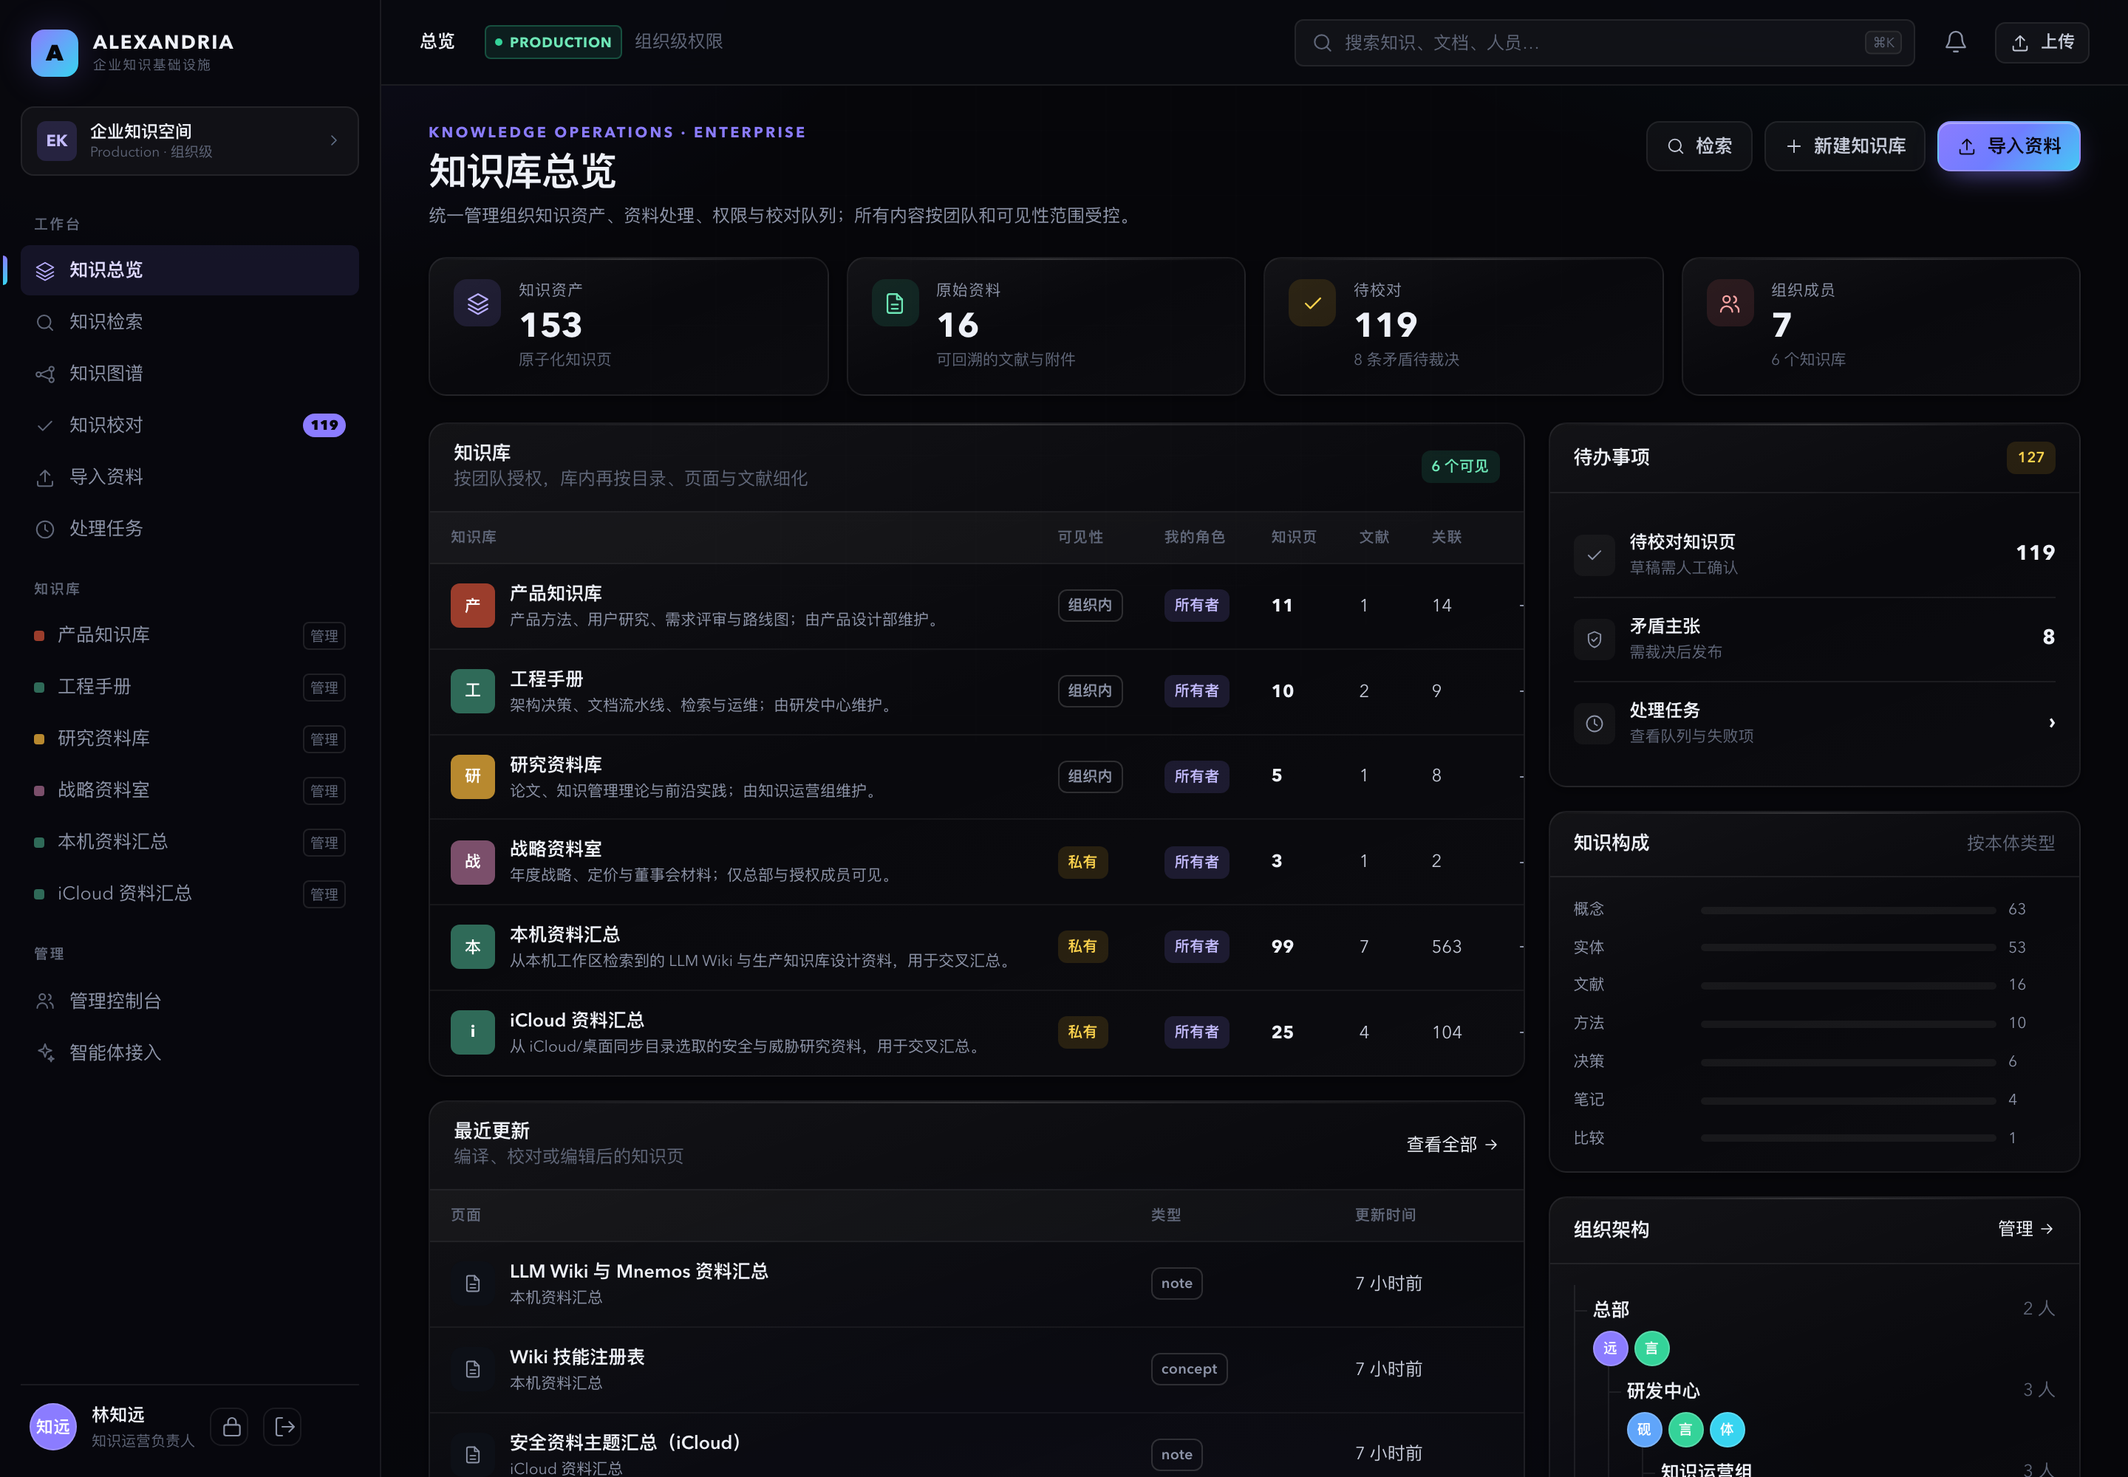
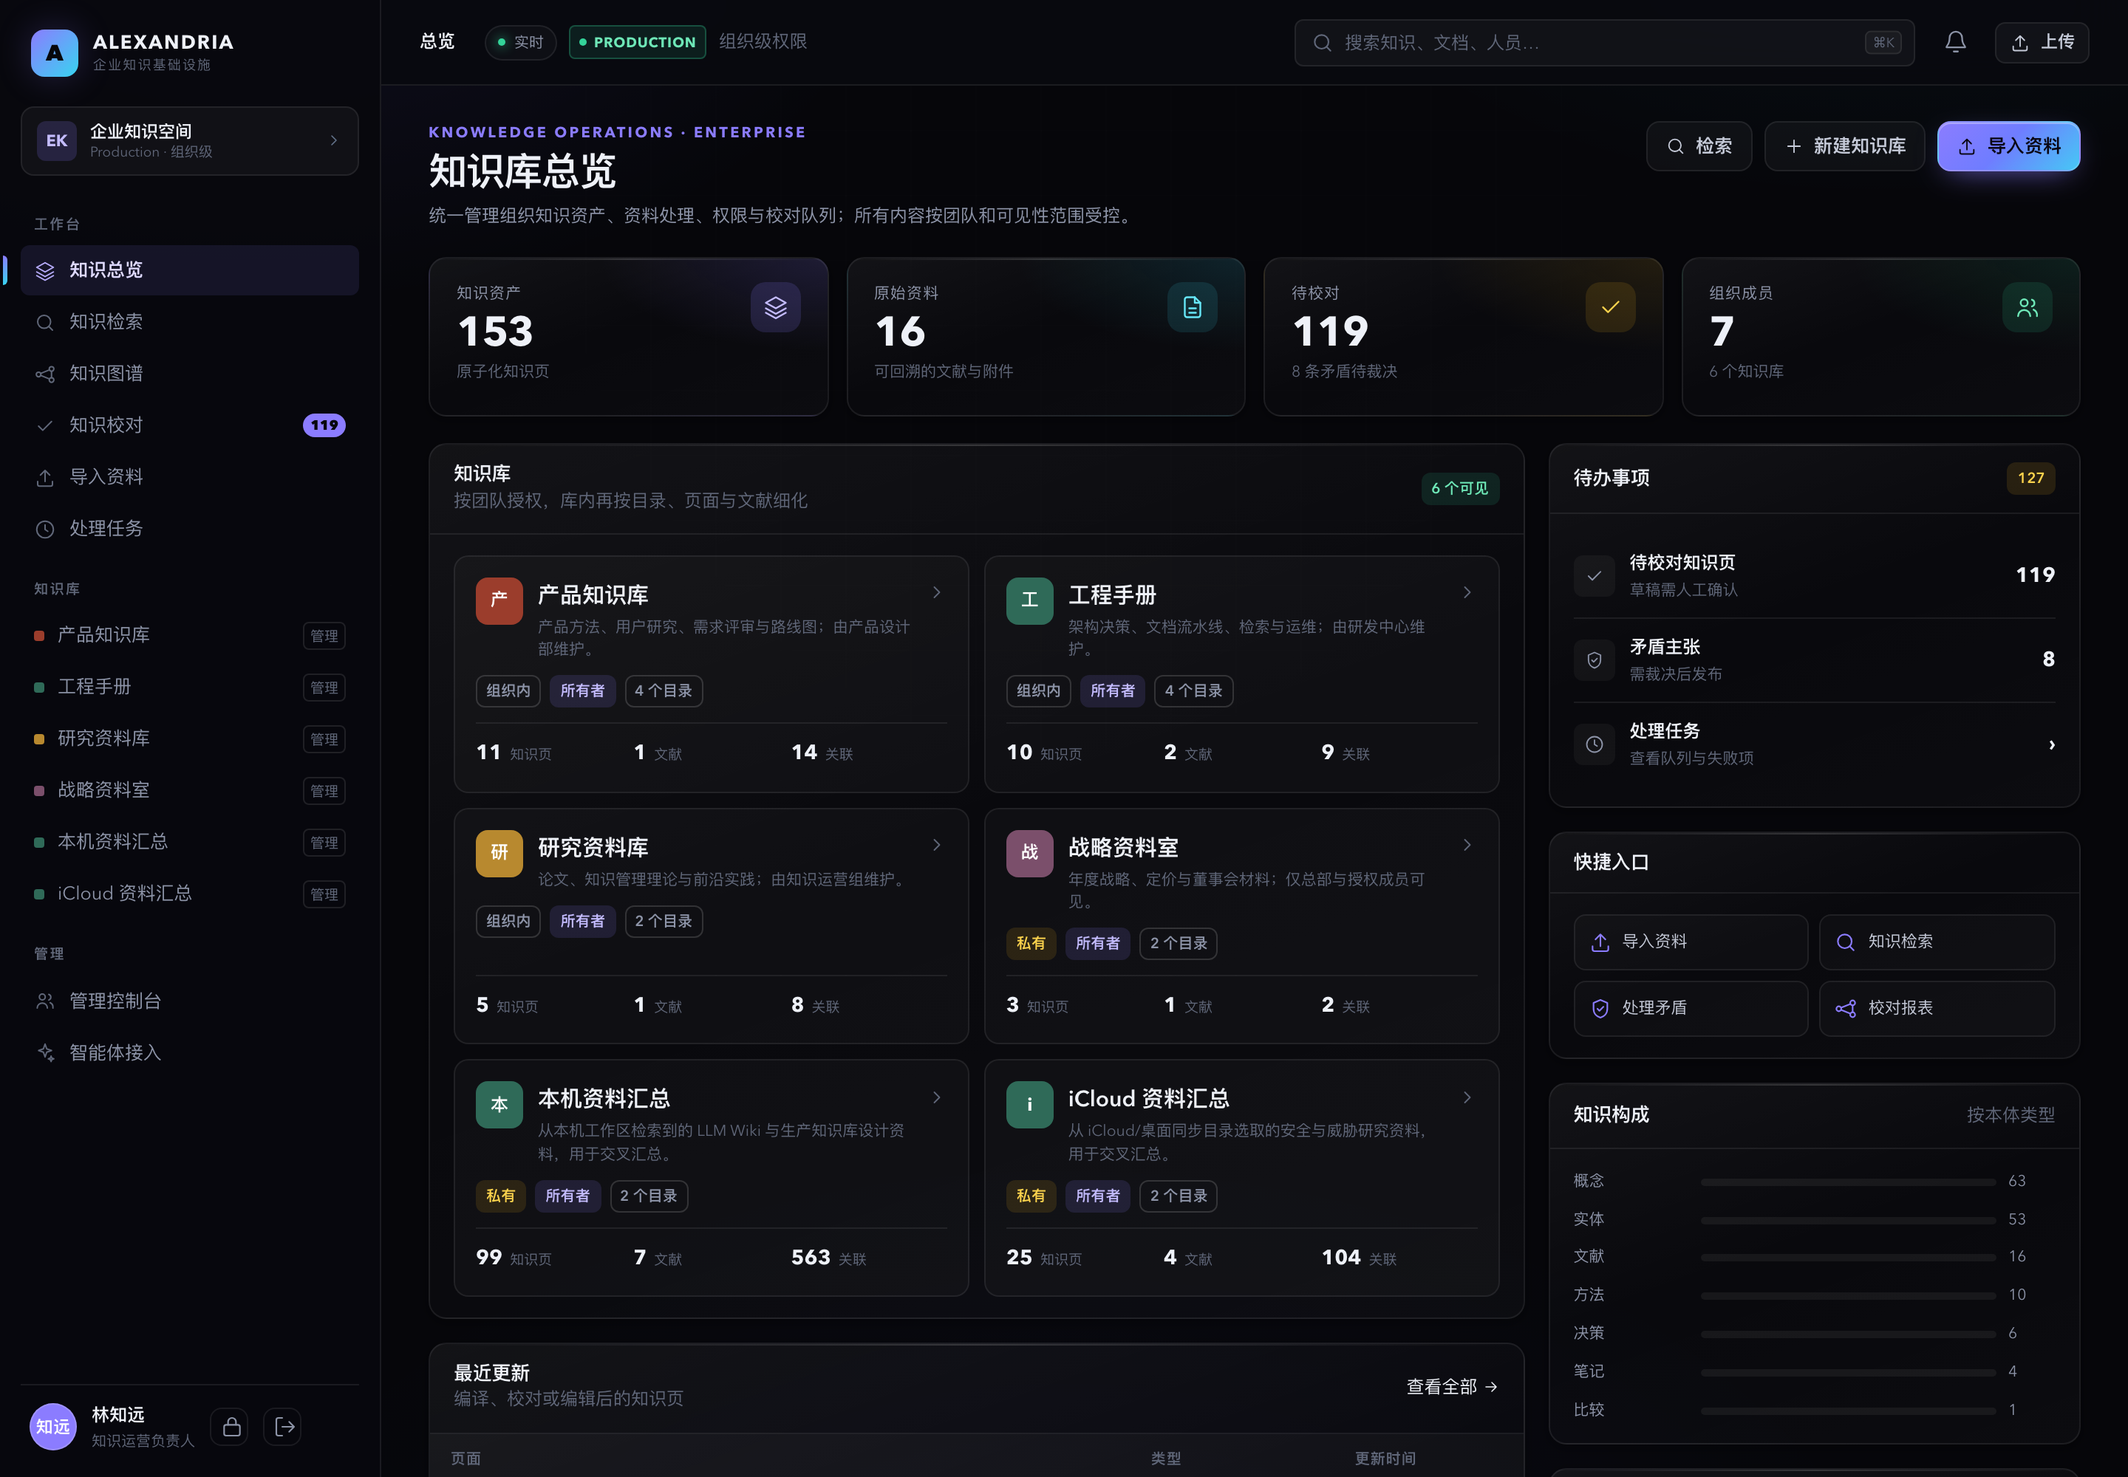
feat(ui): mirror aiworker Aurora login and Hive dashboard

diff --git a/web/views/home.js b/web/views/home.js
@@ -26,22 +26,23 @@ export async function renderHome() {
   const maxClass = Math.max(1, ...classes.map((item) => item.count));
   const featured = libraries[0];
 
-  const libraryRows = libraries
+  const libraryCards = libraries
     .map((library) => {
       const coverColor = libraryColor(library.color);
       const visibility = library.visibility === 'private' ? '私有' : library.visibility === 'public' ? '公开' : '组织内';
-      return `<tr>
-        <td><a class="library-row" href="#/library/${encodeURIComponent(library.slug)}">
-          <span class="library-avatar" style="background:${coverColor}">${esc(library.name.slice(0, 1))}</span>
-          <span style="min-width:0"><span class="name">${esc(library.name)}</span><span class="desc">${esc(library.description || '暂无描述')}</span></span>
-        </a></td>
-        <td><span class="badge ${library.visibility === 'private' ? 'ochre' : 'outline'}">${visibility}</span></td>
-        <td>${roleBadge(library.role)}</td>
-        <td class="num-cell"><b>${fmtNumber(library.counts?.pages)}</b></td>
-        <td class="num-cell">${fmtNumber(library.counts?.sources)}</td>
-        <td class="num-cell">${fmtNumber(library.counts?.links)}</td>
-        <td><a class="icon-btn" href="#/library/${encodeURIComponent(library.slug)}" title="打开知识库" aria-label="打开知识库">${icon('arrow', 14)}</a></td>
-      </tr>`;
+      return `<a class="lib-card" href="#/library/${encodeURIComponent(library.slug)}">
+        <div class="lib-card-head">
+          <span class="lib-avatar" style="background:${coverColor}">${esc(library.name.slice(0, 1))}</span>
+          <span class="lib-card-title"><b>${esc(library.name)}</b><span>${esc(library.description || '暂无描述')}</span></span>
+          <span class="lib-chevron">${icon('chevron', 14)}</span>
+        </div>
+        <div class="lib-card-badges"><span class="badge ${library.visibility === 'private' ? 'ochre' : 'outline'}">${visibility}</span>${roleBadge(library.role)}<span class="badge outline">${(library.nodes ?? []).length} 个目录</span></div>
+        <div class="lib-card-stats">
+          <span><b>${fmtNumber(library.counts?.pages)}</b><i>知识页</i></span>
+          <span><b>${fmtNumber(library.counts?.sources)}</b><i>文献</i></span>
+          <span><b>${fmtNumber(library.counts?.links)}</b><i>关联</i></span>
+        </div>
+      </a>`;
     })
     .join('');
 
@@ -77,22 +78,17 @@ export async function renderHome() {
     </section>
 
     <section class="kpi-grid">
-      <div class="kpi-card"><span class="kpi-icon">${icon('layers', 17)}</span><div><div class="label">知识资产</div><div class="value">${fmtNumber(stats.pages)}</div><div class="hint">原子化知识页</div></div></div>
-      <div class="kpi-card"><span class="kpi-icon green">${icon('file', 17)}</span><div><div class="label">原始资料</div><div class="value">${fmtNumber(stats.sources)}</div><div class="hint">可回溯的文献与附件</div></div></div>
-      <div class="kpi-card"><span class="kpi-icon amber">${icon('check', 17)}</span><div><div class="label">待校对</div><div class="value">${fmtNumber(pending)}</div><div class="hint">${conflicts} 条矛盾待裁决</div></div></div>
-      <div class="kpi-card"><span class="kpi-icon ${conflicts ? 'red' : 'green'}">${icon('users', 17)}</span><div><div class="label">组织成员</div><div class="value">${fmtNumber(stats.members)}</div><div class="hint">${fmtNumber(stats.libraries ?? libraries.length)} 个知识库</div></div></div>
+      <div class="kpi-card kpi-violet"><div><div class="label">知识资产</div><div class="value">${fmtNumber(stats.pages)}</div><div class="hint">原子化知识页</div></div><span class="kpi-icon">${icon('layers', 18)}</span></div>
+      <div class="kpi-card kpi-cyan"><div><div class="label">原始资料</div><div class="value">${fmtNumber(stats.sources)}</div><div class="hint">可回溯的文献与附件</div></div><span class="kpi-icon">${icon('file', 18)}</span></div>
+      <div class="kpi-card kpi-amber"><div><div class="label">待校对</div><div class="value">${fmtNumber(pending)}</div><div class="hint">${conflicts} 条矛盾待裁决</div></div><span class="kpi-icon">${icon('check', 18)}</span></div>
+      <div class="kpi-card kpi-green"><div><div class="label">组织成员</div><div class="value">${fmtNumber(stats.members)}</div><div class="hint">${fmtNumber(stats.libraries ?? libraries.length)} 个知识库</div></div><span class="kpi-icon">${icon('users', 18)}</span></div>
     </section>
 
     <div class="dashboard-grid">
       <div class="dashboard-main">
         <div class="panel">
           <div class="panel-head"><div><h3>知识库</h3><div class="small faint">按团队授权，库内再按目录、页面与文献细化</div></div><span class="badge jade">${libraries.length} 个可见</span></div>
-          <div style="overflow:auto">
-            <table class="data-table">
-              <thead><tr><th>知识库</th><th>可见性</th><th>我的角色</th><th>知识页</th><th>文献</th><th>关联</th><th></th></tr></thead>
-              <tbody>${libraryRows || '<tr><td colspan="7" class="muted" style="padding:18px">暂无可见知识库</td></tr>'}</tbody>
-            </table>
-          </div>
+          <div class="panel-body"><div class="lib-grid">${libraryCards || '<div class="rail-empty">暂无可见知识库</div>'}</div></div>
         </div>
 
         <div class="panel">
@@ -116,6 +112,16 @@ export async function renderHome() {
               <a class="todo-item" href="#/tasks"><span class="todo-icon">${icon('clock', 14)}</span><span class="todo-text"><b>处理任务</b><span>查看队列与失败项</span></span><span class="todo-count">›</span></a>
             </div>
           </div>
+        </div>
+
+        <div class="panel">
+          <div class="panel-head"><h3>快捷入口</h3></div>
+          <div class="panel-body"><div class="quick-grid">
+            <a class="quick-action" href="#/upload">${icon('upload', 16)}<span>导入资料</span></a>
+            <a class="quick-action" href="#/search">${icon('search', 16)}<span>知识检索</span></a>
+            <a class="quick-action" href="#/review?conflicts=1">${icon('shield', 16)}<span>处理矛盾</span></a>
+            <a class="quick-action" href="#/admin?tab=review-analytics">${icon('graph', 16)}<span>校对报表</span></a>
+          </div></div>
         </div>
 
         <div class="panel">

diff --git a/web/styles.css b/web/styles.css
@@ -1154,3 +1154,52 @@ h1, h2, h3, h4, .section-head h2, .library-title-row h1, .article-head h1, .page
 .nav-count { background:#8b7cff !important; color:#07080c !important; border:0 !important; }
 .article-head h1 { font-size:28px; }
 .library-title-row h1 { font-size:26px; }
+/* Hive-style dashboard cards */
+.kpi-card { position: relative; align-items: flex-start; justify-content: space-between; padding: 16px 18px; min-height: 108px; }
+.kpi-card > div { min-width: 0; }
+.kpi-card .kpi-icon { margin-left: auto; width: 34px; height: 34px; border-radius: 10px; flex: 0 0 auto; }
+.kpi-violet { background: radial-gradient(220px 90px at 100% 0%, rgba(139,124,255,.16), transparent 70%), var(--gradient-card); }
+.kpi-cyan { background: radial-gradient(220px 90px at 100% 0%, rgba(56,212,240,.13), transparent 70%), var(--gradient-card); }
+.kpi-amber { background: radial-gradient(220px 90px at 100% 0%, rgba(251,191,36,.11), transparent 70%), var(--gradient-card); }
+.kpi-green { background: radial-gradient(220px 90px at 100% 0%, rgba(52,211,153,.11), transparent 70%), var(--gradient-card); }
+.kpi-violet .kpi-icon { background: rgba(139,124,255,.16); color: #c4bcff; }
+.kpi-cyan .kpi-icon { background: rgba(56,212,240,.12); color: #67e8f9; }
+.kpi-amber .kpi-icon { background: rgba(251,191,36,.12); color: #fcd34d; }
+.kpi-green .kpi-icon { background: rgba(52,211,153,.12); color: #6ee7b7; }
+.lib-grid { display: grid; grid-template-columns: repeat(2, minmax(0, 1fr)); gap: 10px; }
+.lib-card { display: flex; flex-direction: column; gap: 10px; min-width: 0; padding: 14px; border: 1px solid var(--line); border-radius: 10px; background: rgba(255,255,255,.022); transition: border-color .16s, background .16s, transform .16s; }
+.lib-card:hover { border-color: rgba(139,124,255,.35); background: rgba(255,255,255,.04); transform: translateY(-1px); }
+.lib-card-head { display: flex; align-items: flex-start; gap: 10px; min-width: 0; }
+.lib-avatar { width: 32px; height: 32px; border-radius: 8px; display: grid; place-items: center; color: #fff; font-size: 12px; font-weight: 700; flex: 0 0 auto; }
+.lib-card-title { min-width: 0; flex: 1; display: flex; flex-direction: column; gap: 2px; }
+.lib-card-title b { color: var(--ink); font-size: 13px; font-weight: 600; white-space: nowrap; overflow: hidden; text-overflow: ellipsis; }
+.lib-card-title span { color: var(--faint); font-size: 10.5px; line-height: 1.45; display: -webkit-box; -webkit-line-clamp: 2; -webkit-box-orient: vertical; overflow: hidden; }
+.lib-chevron { color: var(--faint); flex: 0 0 auto; }
+.lib-card-badges { display: flex; gap: 6px; flex-wrap: wrap; }
+.lib-card-stats { display: grid; grid-template-columns: repeat(3, 1fr); gap: 1px; border-top: 1px solid var(--line); padding-top: 9px; margin-top: auto; }
+.lib-card-stats span { display: flex; align-items: baseline; gap: 5px; }
+.lib-card-stats b { color: var(--ink); font-size: 14px; font-weight: 650; }
+.lib-card-stats i { color: var(--faint); font-size: 9.5px; font-style: normal; }
+.lib-add { display: flex; flex-direction: column; align-items: center; justify-content: center; gap: 5px; min-height: 156px; border: 1px dashed var(--line-strong); border-radius: 10px; background: transparent; color: var(--muted); }
+.lib-add:hover { border-color: rgba(139,124,255,.5); color: #c4bcff; background: rgba(139,124,255,.06); }
+.lib-add b { font-size: 11.5px; font-weight: 600; }
+.lib-add span { font-size: 9.5px; color: var(--faint); }
+.quick-grid { display: grid; grid-template-columns: 1fr 1fr; gap: 7px; }
+.quick-action { display: flex; align-items: center; gap: 7px; padding: 9px; border: 1px solid var(--line); border-radius: 8px; color: var(--ink-2); font-size: 11px; background: rgba(255,255,255,.02); }
+.quick-action:hover { border-color: rgba(139,124,255,.35); background: rgba(139,124,255,.07); color: #d7d0ff; }
+.quick-action .icon { color: #8b7cff; }
+@media (max-width: 1180px) { .lib-grid { grid-template-columns: 1fr; } }
+@media (max-width: 720px) { .lib-grid { grid-template-columns: 1fr; } }
+.login-quote { font-size: 46px; line-height: 1.15; max-width: 480px; }
+.login-feature-grid { display:grid; grid-template-columns:repeat(3,minmax(0,1fr)); gap:8px; margin-top:24px; }
+.login-feature-card { display:flex; flex-direction:column; gap:6px; padding:12px; border:1px solid var(--line); border-radius:10px; background:rgba(255,255,255,.025); color:var(--muted); font-size:10px; line-height:1.5; }
+.login-feature-card .icon { color:#8b7cff; }
+.login-feature-card b { color:var(--ink); font-size:11px; font-weight:600; }
+.login-feature-card span { color:var(--faint); }
+.login-card-top { display:flex; align-items:center; justify-content:space-between; gap:12px; }
+.login-card-top .badge { display:inline-flex; align-items:center; gap:4px; }
+.demo-head { display:flex; align-items:center; justify-content:space-between; margin-bottom:4px; }
+@media (max-width: 1280px) { .login-feature-grid { grid-template-columns:1fr; } .login-feature-card { flex-direction:row; align-items:center; flex-wrap:wrap; } .login-feature-card b { min-width:60px; } }
+.kpi-card .value { font-size: 28px; letter-spacing: -.03em; }
+.lib-card-title b { font-size: 15px; }
+.lib-card { min-height: 158px; }

diff --git a/web/app.js b/web/app.js
@@ -81,11 +81,10 @@ function showLogin() {
           <div class="eyebrow" style="margin-bottom:18px;color:#60a5fa">KNOWLEDGE OPERATIONS</div>
           <div class="login-quote">让知识成为<br>可复用的<em>企业资产</em>。</div>
           <p class="caption">统一管理资料、知识页、实体关系与访问权限。处理过程任务化，知识变更留痕，敏感内容按组织架构精确授权。</p>
-          <div class="login-features">
-            <span>${icon('shield', 14)} 组织级权限</span>
-            <span>${icon('check', 14)} 人工校对</span>
-            <span>${icon('graph', 14)} 知识图谱</span>
-            <span>${icon('search', 14)} 语义检索</span>
+          <div class="login-feature-grid">
+            <div class="login-feature-card">${icon('layers', 15)}<b>资料编译</b><span>入库时抽取概念、事实与矛盾。</span></div>
+            <div class="login-feature-card">${icon('graph', 15)}<b>知识图谱</b><span>类型化关联、层级与最短路径。</span></div>
+            <div class="login-feature-card">${icon('shield', 15)}<b>组织权限</b><span>按团队与层级精确控制可见性。</span></div>
           </div>
           <div class="login-meta"><span>SSO / 企业微信</span><span>审计日志</span><span>备份与恢复</span><span>本机 DSH</span></div>
         </div>
@@ -93,9 +92,9 @@ function showLogin() {
       </aside>
       <main class="login-main">
         <div class="login-card">
-          <div class="eyebrow">SIGN IN</div>
-          <h2 style="margin-top:8px">登录企业知识库</h2>
-          <p class="muted small">使用组织账号登录；管理员可配置 SSO 与企业微信。演示环境密码统一为 <span class="mono">alex-demo</span>。</p>
+          <div class="login-card-top"><div class="eyebrow">SIGN IN</div><span class="badge jade">${icon('shield', 12)} 安全会话</span></div>
+          <h2 style="margin-top:8px">登录控制台</h2>
+          <p class="muted small">使用组织账号或演示账号继续；管理员可配置 SSO 与企业微信。</p>
           <form class="login-form" id="login-form">
             <div class="field"><label>邮箱</label><input class="input" name="email" type="email" value="lin@alex.dev" autocomplete="username" required></div>
             <div class="field"><label>密码</label><input class="input" name="password" type="password" value="alex-demo" autocomplete="current-password" required></div>
@@ -104,7 +103,7 @@ function showLogin() {
           </form>
           <div id="wecom-login-slot" style="margin-top:18px"></div>
           <div class="demo-users">
-            <div class="title">演示账号</div>
+            <div class="demo-head"><span class="title">演示账号</span><span class="small faint">点击自动填入</span></div>
             ${DEMO_USERS.map(
               (user) => `<div class="demo-row" data-email="${user.email}"><span class="avatar sm ${user.email.startsWith('lin') ? 'clay' : user.email.startsWith('shen') ? 'jade' : user.email.startsWith('su') ? 'ochre' : user.email.startsWith('zhou') ? 'indigo' : 'slate'}">${user.name.slice(-1)}</span><span>${user.name}</span><span class="faint" style="font-size:10px">${user.role}</span><span class="email">${user.email}</span></div>`,
             ).join('')}
@@ -297,7 +296,7 @@ async function route() {
     const html = await renderHome();
     if (seq !== routeSeq) return;
     renderShell({ content: html, breadcrumb: [{ label: '总览' }], active: 'home' });
-    document.title = 'Alexandria · 亚历山大知识库';
+    document.title = 'Alexandria · 企业知识基础设施';
     mountHome();
   } catch (error) {
     console.error(error);
